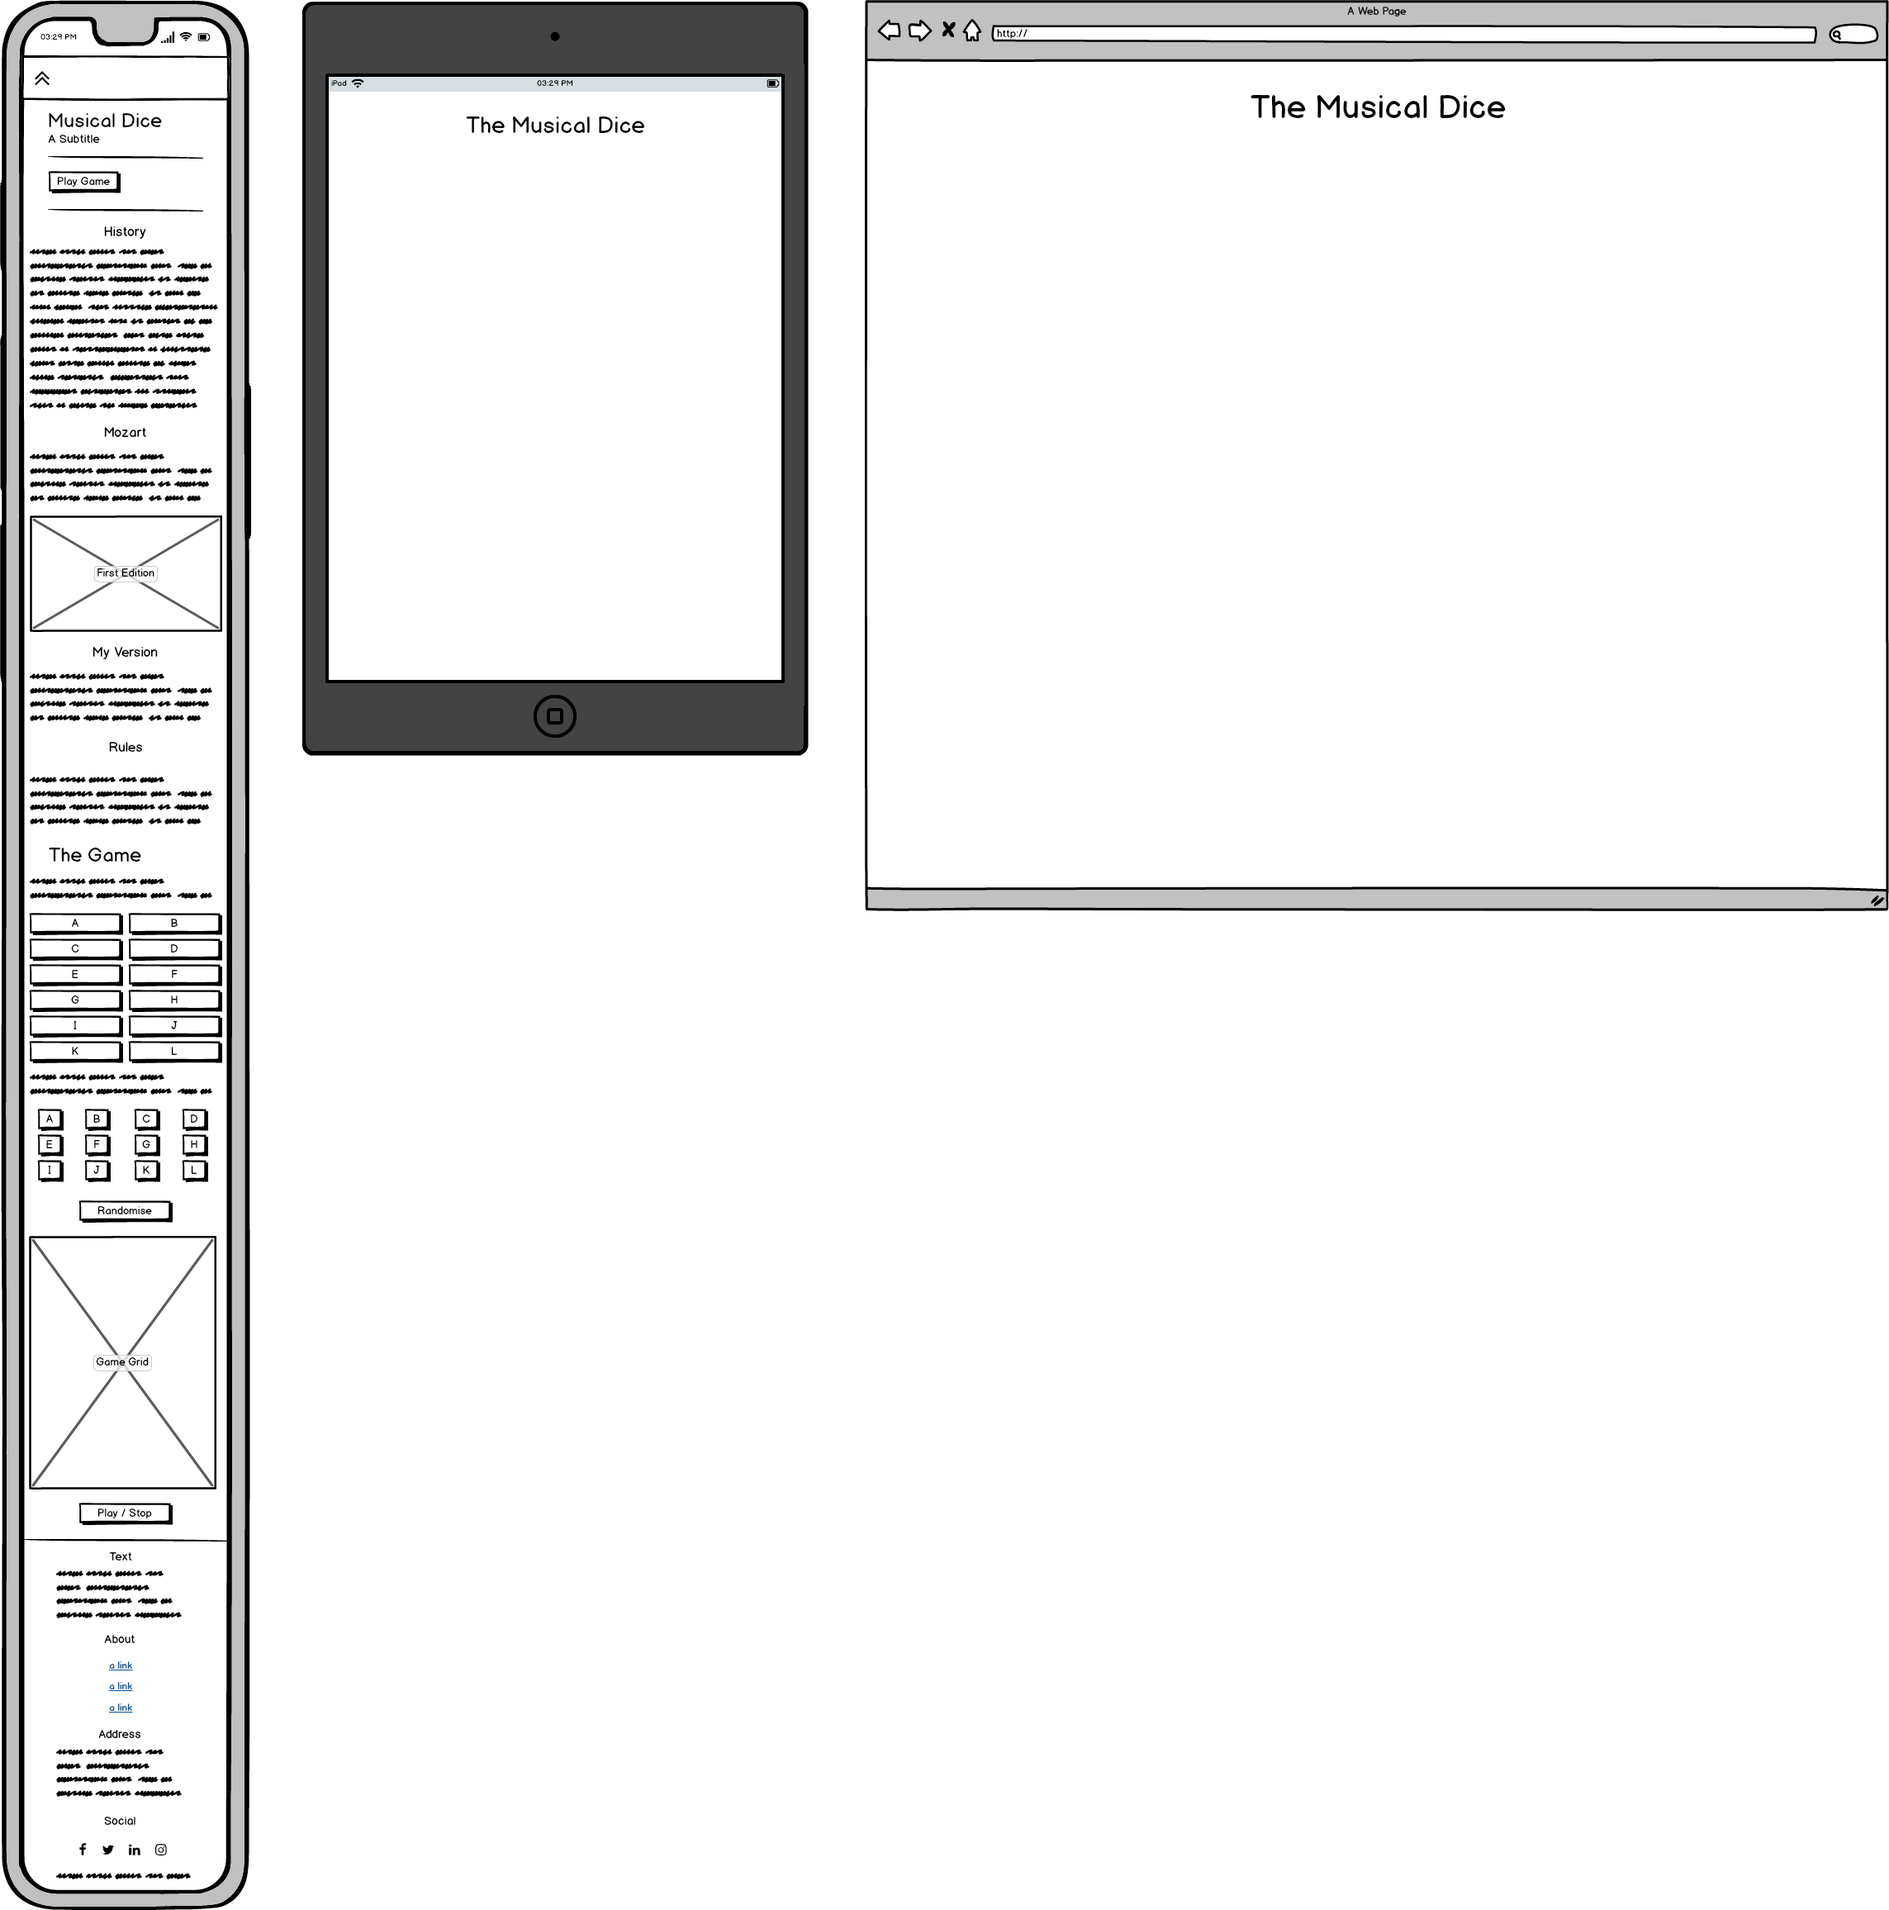
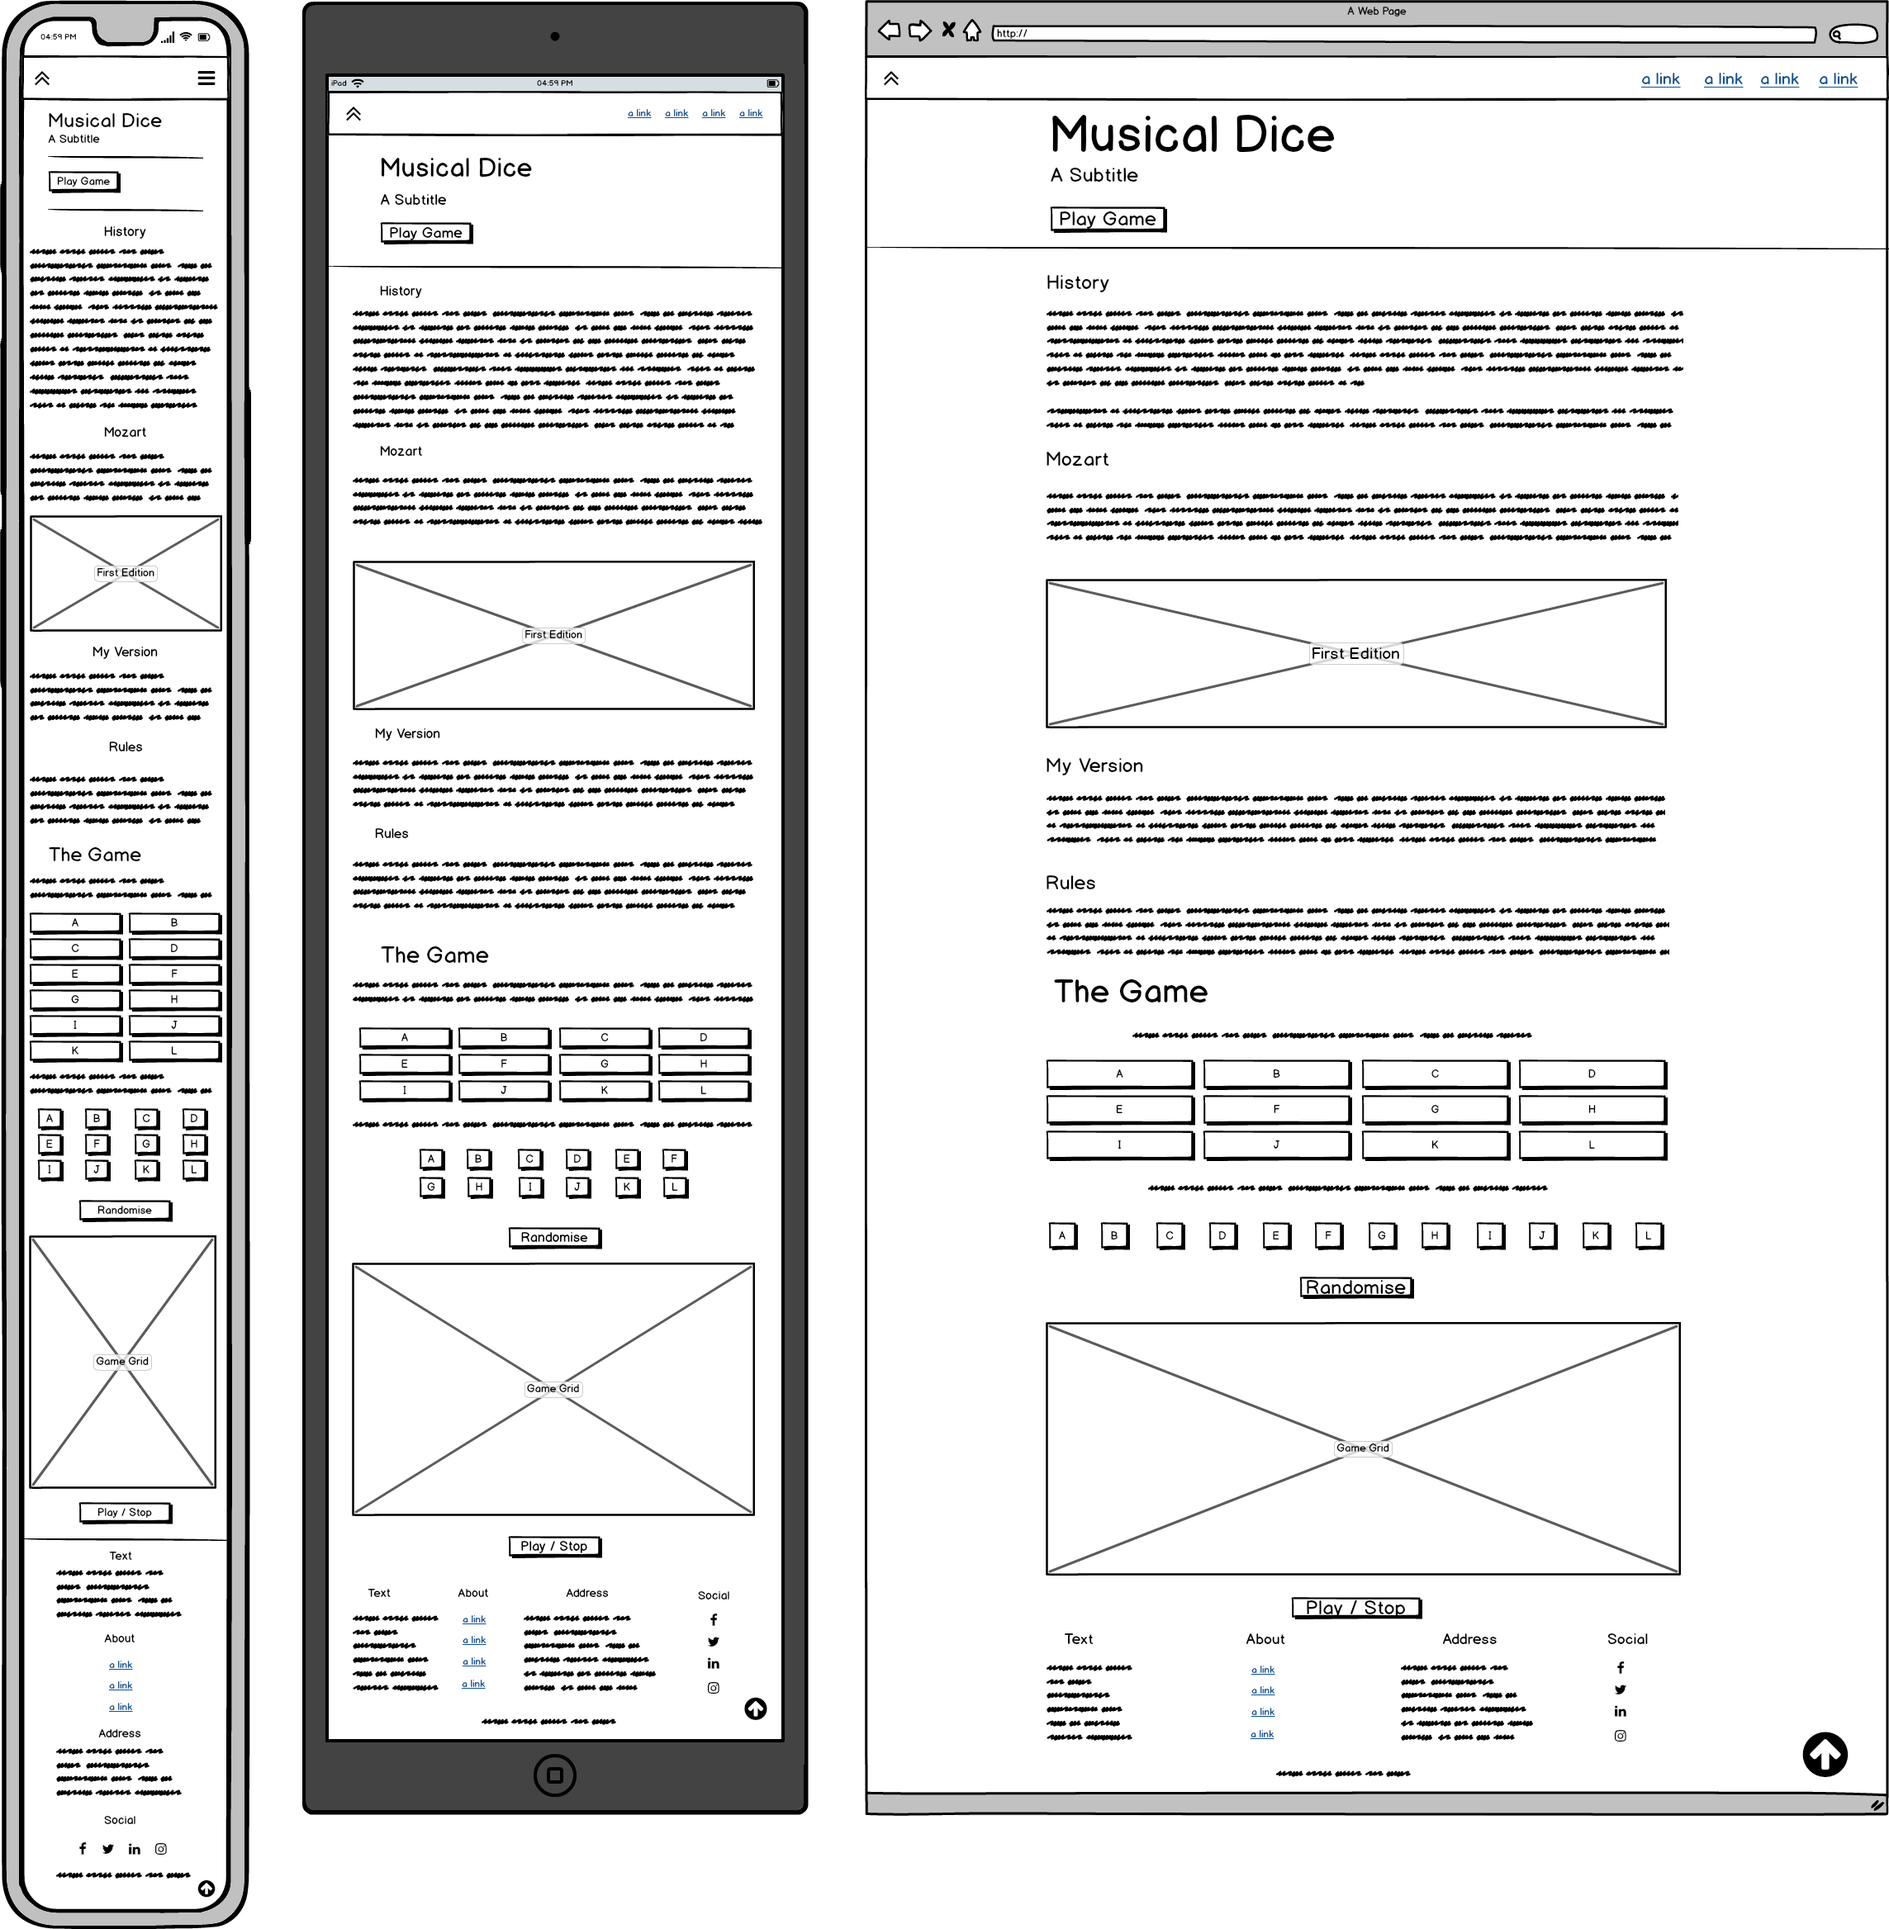
Added wireframes

diff --git a/README.md b/README.md
@@ -139,9 +139,13 @@ This website is fully responsive to all sizes and devices. Making the main music
 
 ## Wireframes
 
+### Page wireframe
+
 ![Index.html](wireframes/index.png)
 
+### Grid wireframe (detail)
 
+![grid](wireframes/grid.png)
 ***
 <a name="features"></a>
 
@@ -333,7 +337,7 @@ All code that helped and was adapted to serve the purposes of this website has b
 - [Simen Dehlin](https://github.com/Eventyret), mentor and patient counselor.
 - [Roko Buljan](https://github.com/rokobuljan), for his invaluable help and sympathy.
 - [Tim Nelson](https://github.com/TravelTimN), for great help in several moments of the process.
-- [Fran](https://github.com/fdeboo), for proofreading and being there making it all more enjoyable.
+- [Fran](https://github.com/fdeboo), for proofreading and being there making it all the more enjoyable.
 
 ***
 
